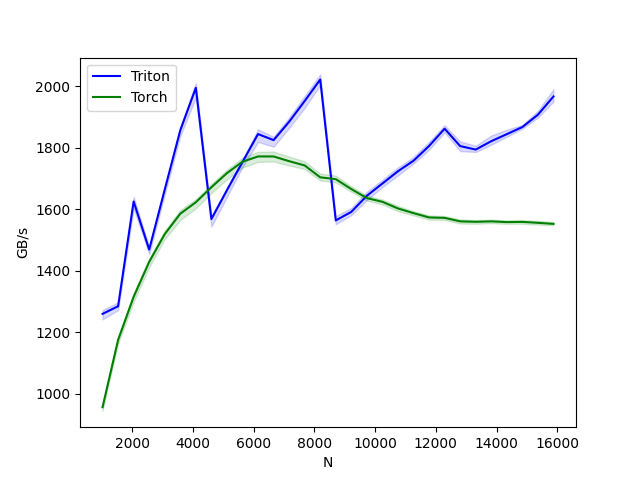
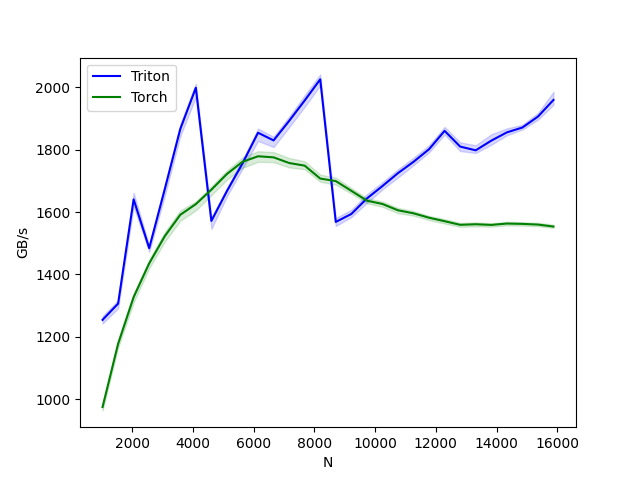
Add updated plots for forward and backward

diff --git a/triton/plots/layer_norm/results.html b/triton/plots/layer_norm/results.html
@@ -1,3 +1,3 @@
 <html><body>
-<image src="layer-norm-forward-latency.png"/>
+<image src="layer-norm-backward-latency.png"/>
 </body></html>
